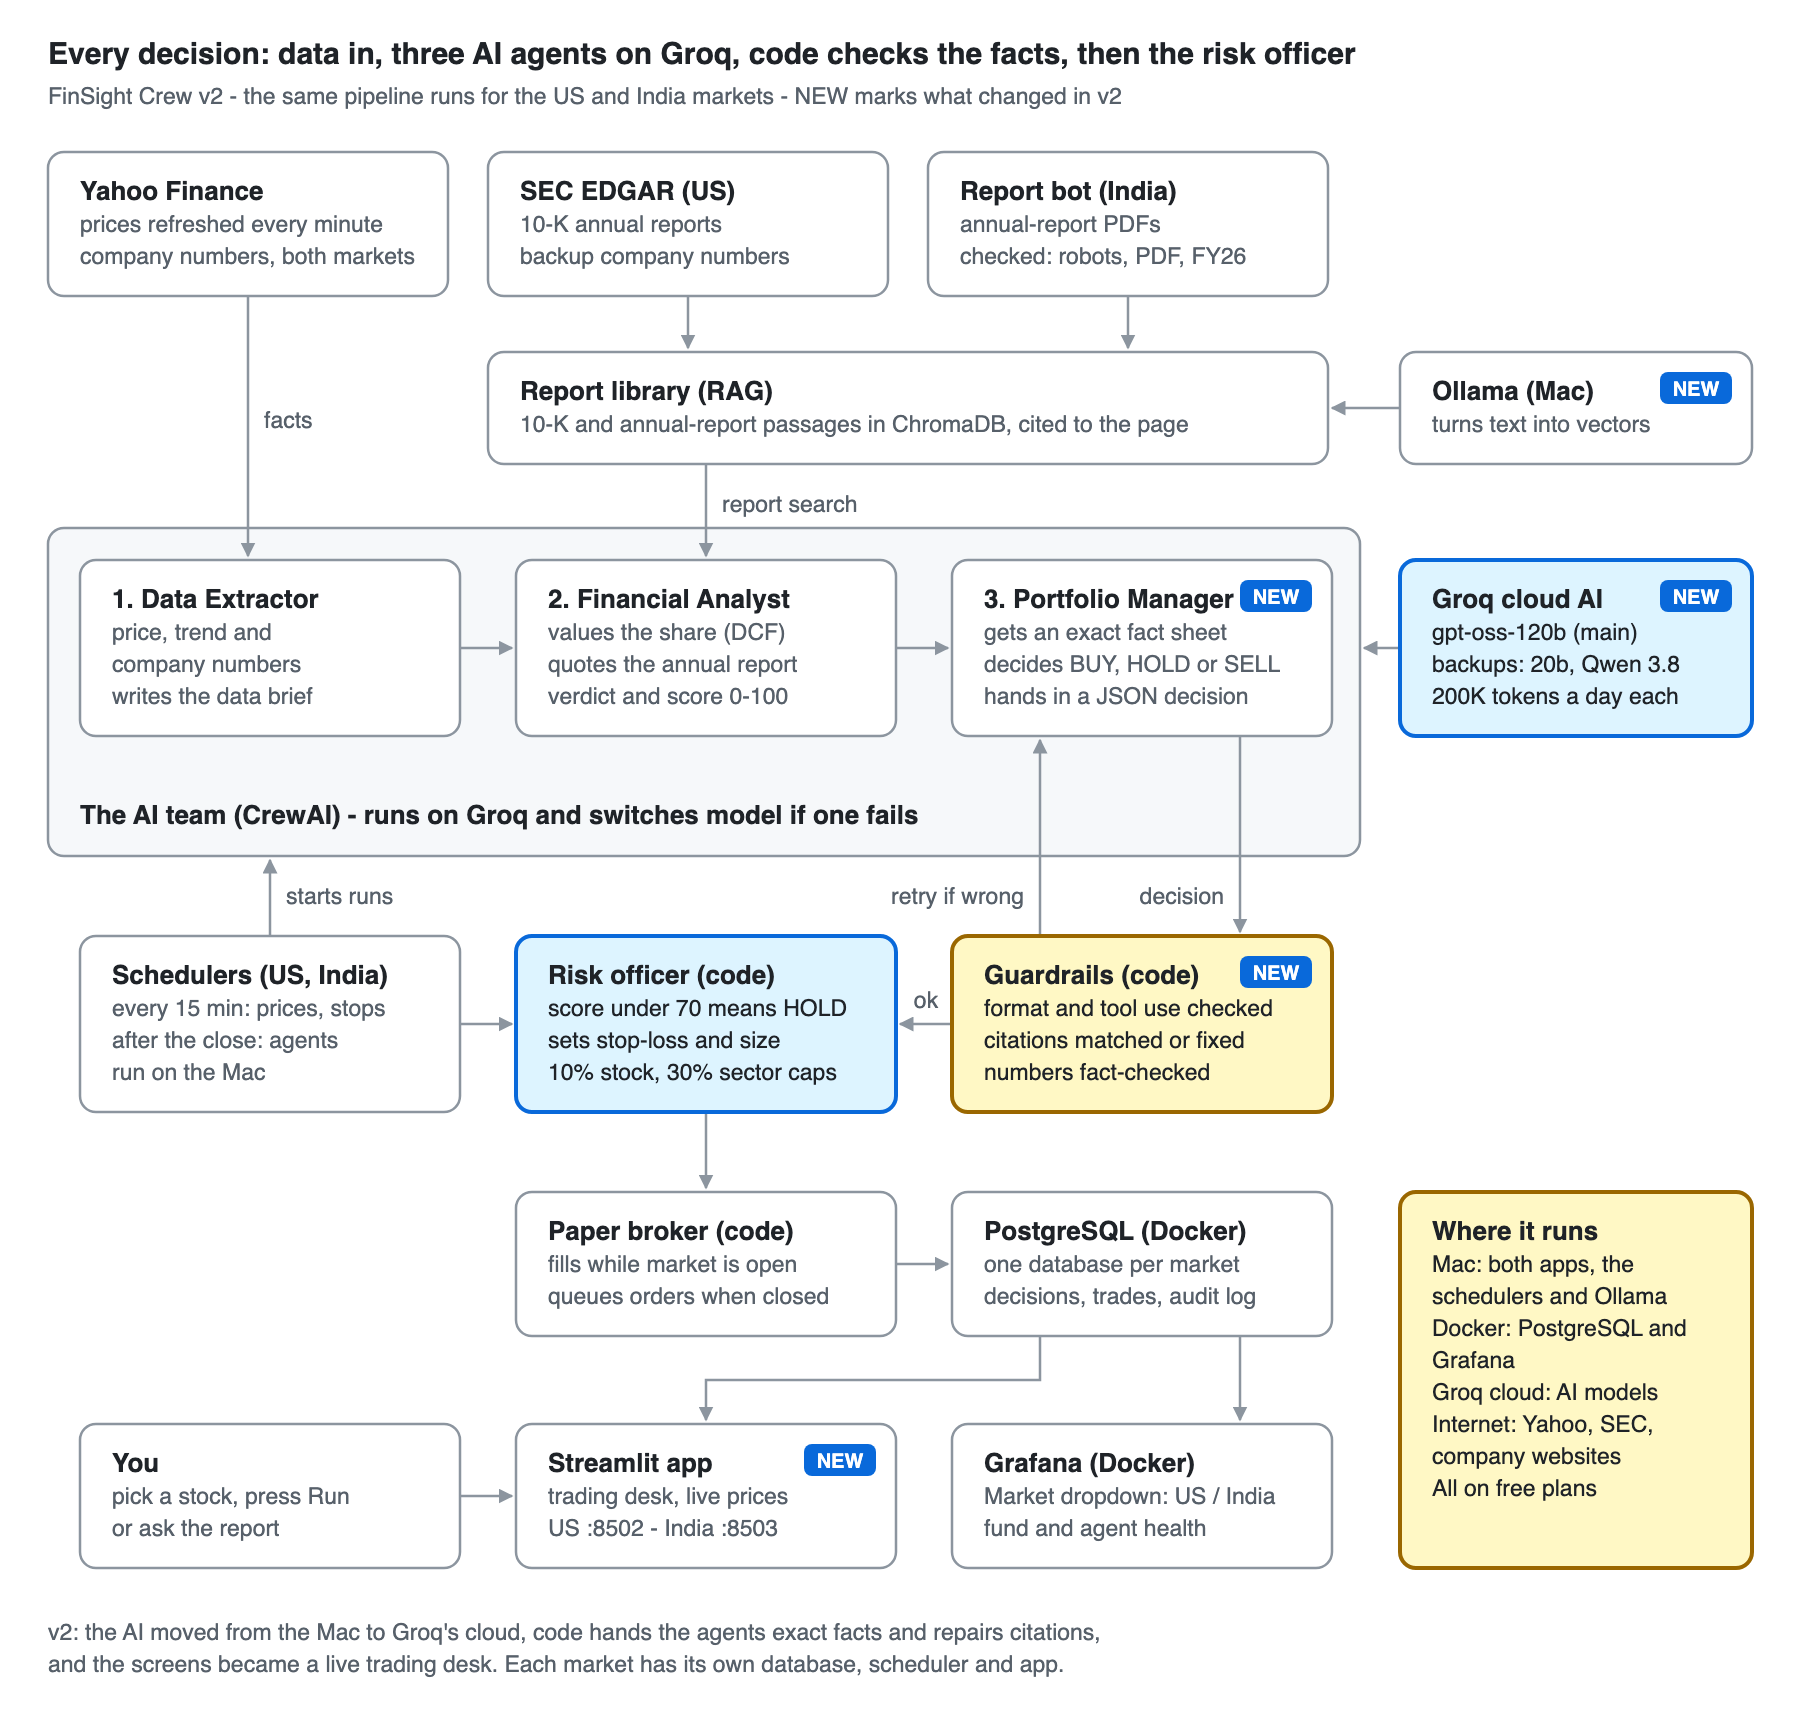
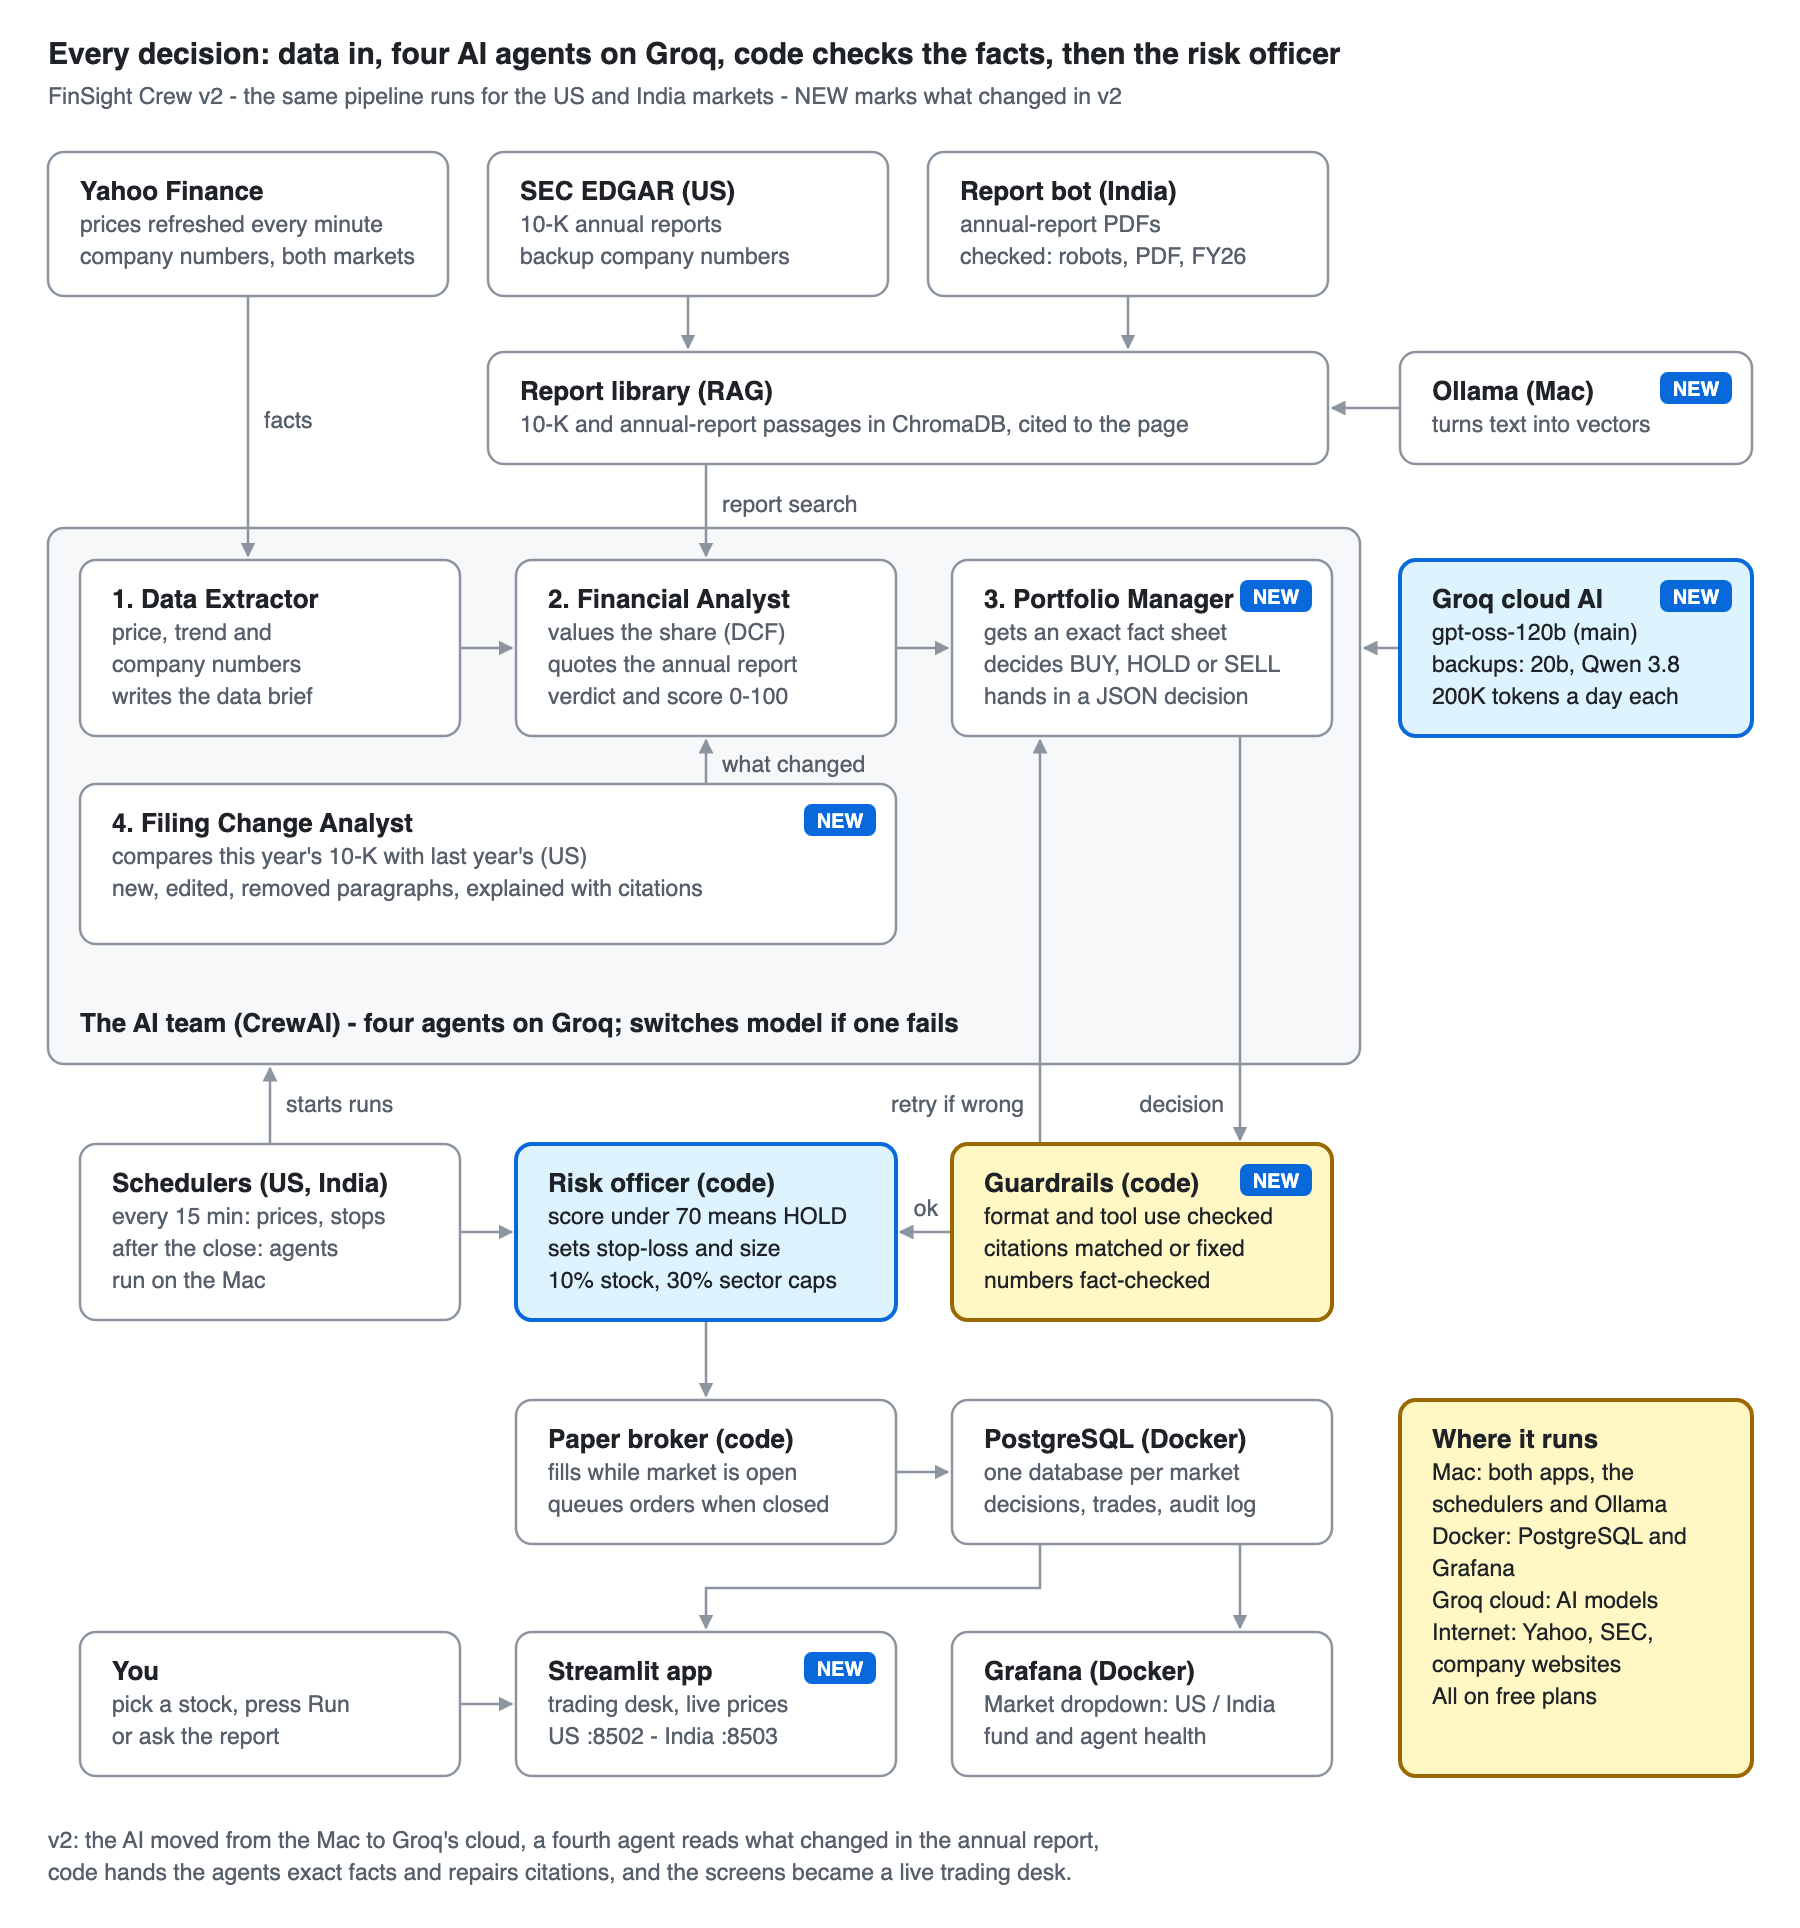
Architecture diagram: add the Filing Change Analyst as agent 4

Changed region(s): [[0.0311, 0.0, 0.9956, 0.986], [0.7778, 0.6779, 0.9956, 0.9244], [0.1556, 0.2157, 0.1867, 0.2465]]

diff --git a/docs/make_architecture_diagram.py b/docs/make_architecture_diagram.py
@@ -6,8 +6,8 @@ The same layout is used for the diagram in the team guide, so both always match.
 """
 from pathlib import Path
 
-W, H = 900, 860
-TITLE = "Every decision: data in, three AI agents on Groq, code checks the facts, then the risk officer"
+W, H = 900, 964
+TITLE = "Every decision: data in, four AI agents on Groq, code checks the facts, then the risk officer"
 SUBTITLE = "FinSight Crew v2 - the same pipeline runs for the US and India markets - NEW marks what changed in v2"
 
 # (anchor, x, y, w, h, style, name, lines)   style: box | accent | soft
@@ -21,36 +21,38 @@ BOXES = [
     ("agent1", 40, 280, 190, 88, "box", "1. Data Extractor", ["price, trend and", "company numbers", "writes the data brief"]),
     ("agent2", 258, 280, 190, 88, "box", "2. Financial Analyst", ["values the share (DCF)", "quotes the annual report", "verdict and score 0-100"]),
     ("agent3", 476, 280, 190, 88, "box", "3. Portfolio Manager", ["gets an exact fact sheet", "decides BUY, HOLD or SELL", "hands in a JSON decision"]),
-    ("scheduler", 40, 468, 190, 88, "box", "Schedulers (US, India)", ["every 15 min: prices, stops", "after the close: agents", "run on the Mac"]),
-    ("risk", 258, 468, 190, 88, "accent", "Risk officer (code)", ["score under 70 means HOLD", "sets stop-loss and size", "10% stock, 30% sector caps"]),
-    ("guardrails", 476, 468, 190, 88, "soft", "Guardrails (code)", ["format and tool use checked", "citations matched or fixed", "numbers fact-checked"]),
-    ("broker", 258, 596, 190, 72, "box", "Paper broker (code)", ["fills while market is open", "queues orders when closed"]),
-    ("database", 476, 596, 190, 72, "box", "PostgreSQL (Docker)", ["one database per market", "decisions, trades, audit log"]),
-    ("where", 700, 596, 176, 188, "soft", "Where it runs", ["Mac: both apps, the", "schedulers and Ollama", "Docker: PostgreSQL and", "Grafana", "Groq cloud: AI models", "Internet: Yahoo, SEC,", "company websites", "All on free plans"]),
-    ("you", 40, 712, 190, 72, "box", "You", ["pick a stock, press Run", "or ask the report"]),
-    ("streamlit", 258, 712, 190, 72, "box", "Streamlit app", ["trading desk, live prices", "US :8502 - India :8503"]),
-    ("grafana", 476, 712, 190, 72, "box", "Grafana (Docker)", ["Market dropdown: US / India", "fund and agent health"]),
+    ("filings", 40, 392, 408, 80, "box", "4. Filing Change Analyst", ["compares this year's 10-K with last year's (US)", "new, edited, removed paragraphs, explained with citations"]),
+    ("scheduler", 40, 572, 190, 88, "box", "Schedulers (US, India)", ["every 15 min: prices, stops", "after the close: agents", "run on the Mac"]),
+    ("risk", 258, 572, 190, 88, "accent", "Risk officer (code)", ["score under 70 means HOLD", "sets stop-loss and size", "10% stock, 30% sector caps"]),
+    ("guardrails", 476, 572, 190, 88, "soft", "Guardrails (code)", ["format and tool use checked", "citations matched or fixed", "numbers fact-checked"]),
+    ("broker", 258, 700, 190, 72, "box", "Paper broker (code)", ["fills while market is open", "queues orders when closed"]),
+    ("database", 476, 700, 190, 72, "box", "PostgreSQL (Docker)", ["one database per market", "decisions, trades, audit log"]),
+    ("where", 700, 700, 176, 188, "soft", "Where it runs", ["Mac: both apps, the", "schedulers and Ollama", "Docker: PostgreSQL and", "Grafana", "Groq cloud: AI models", "Internet: Yahoo, SEC,", "company websites", "All on free plans"]),
+    ("you", 40, 816, 190, 72, "box", "You", ["pick a stock, press Run", "or ask the report"]),
+    ("streamlit", 258, 816, 190, 72, "box", "Streamlit app", ["trading desk, live prices", "US :8502 - India :8503"]),
+    ("grafana", 476, 816, 190, 72, "box", "Grafana (Docker)", ["Market dropdown: US / India", "fund and agent health"]),
 ]
-NEW = {"ollama", "groq", "agent3", "guardrails", "streamlit"}
-CONTAINER = ("ai-team", 24, 264, 656, 164, "The AI team (CrewAI) - runs on Groq and switches model if one fails", 412)
+NEW = {"ollama", "groq", "agent3", "filings", "guardrails", "streamlit"}
+CONTAINER = ("ai-team", 24, 264, 656, 268, "The AI team (CrewAI) - four agents on Groq; switches model if one fails", 516)
 # (path, has arrowhead)
 CONNECTORS = [
     "M124 148V278", "M344 148V174", "M564 148V174", "M700 204H666", "M353 232V278",
-    "M230 324H256", "M448 324H474", "M700 324H682", "M620 368V466", "M520 468V370",
-    "M476 512H450", "M135 468V430", "M230 512H256", "M353 556V594", "M448 632H474",
-    "M620 668V710", "M520 668V690H353V710", "M230 748H256",
+    "M230 324H256", "M448 324H474", "M700 324H682", "M353 392V370", "M620 368V570", "M520 572V370",
+    "M476 616H450", "M135 572V534", "M230 616H256", "M353 660V698", "M448 736H474",
+    "M620 772V814", "M520 772V794H353V814", "M230 852H256",
 ]
 # (id, x, y, text, anchor)
 LABELS = [
     ("label-facts", 132, 214, "facts", "start"),
     ("label-search", 361, 256, "report search", "start"),
-    ("label-decision", 612, 452, "decision", "end"),
-    ("label-retry", 512, 452, "retry if wrong", "end"),
-    ("label-approved", 463, 504, "ok", "middle"),
-    ("label-starts", 143, 452, "starts runs", "start"),
+    ("label-changes", 361, 386, "what changed", "start"),
+    ("label-decision", 612, 556, "decision", "end"),
+    ("label-retry", 512, 556, "retry if wrong", "end"),
+    ("label-approved", 463, 608, "ok", "middle"),
+    ("label-starts", 143, 556, "starts runs", "start"),
 ]
-FOOT = ["v2: the AI moved from the Mac to Groq's cloud, code hands the agents exact facts and repairs citations,",
-        "and the screens became a live trading desk. Each market has its own database, scheduler and app."]
+FOOT = ["v2: the AI moved from the Mac to Groq's cloud, a fourth agent reads what changed in the annual report,",
+        "code hands the agents exact facts and repairs citations, and the screens became a live trading desk."]
 
 LIGHT = {"ink": "#1f2328", "quiet": "#57606a", "edge": "#8c959f", "accent": "#0969da",
          "accent_fill": "#ddf4ff", "soft": "#9a6700", "soft_fill": "#fff8c5", "tint": "#f6f8fa", "bg": "#ffffff"}
